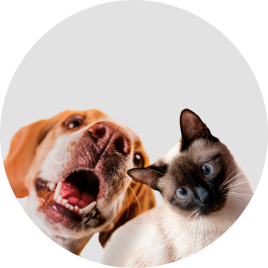
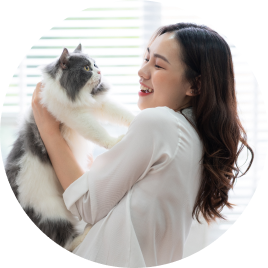
feat(landing): update CTA section and footer with new images and styles

diff --git a/src/components/CTASection.js b/src/components/CTASection.js
@@ -1,37 +1,49 @@
 import Link from "next/link";
+import Image from "next/image";
 
 export default function CTASection() {
     return (
-        <section className="relative w-full overflow-hidden bg-orange-100 py-20 sm:py-28 lg:py-32 px-4 sm:px-6 lg:px-8">
+        <section className="relative w-full overflow-hidden bg-[#FFF1E5] py-20 sm:py-28 lg:py-32 px-4 sm:px-6 lg:px-8">
             {/* === Decorative Shapes === */}
 
             {/* Yellow circle — top right */}
             <div
-                className="absolute -top-16 -right-16 sm:-top-20 sm:-right-20 w-40 h-40 sm:w-56 sm:h-56 lg:w-72 lg:h-72 rounded-full bg-[#FFCA62] pointer-events-none"
-                aria-hidden="true"
-            />
-
-            {/* Green starburst — top center */}
-            <svg
-                className="absolute top-6 left-1/2 -translate-x-1/2 w-20 h-20 sm:w-28 sm:h-28 lg:w-32 lg:h-32 pointer-events-none"
-                viewBox="0 0 120 120"
-                fill="#1CCD83"
+                className="absolute -top-10 -right-10 sm:-top-14 sm:-right-14 lg:-top-16 lg:-right-16 w-36 h-36 sm:w-48 sm:h-48 lg:w-56 lg:h-56 pointer-events-none"
                 aria-hidden="true"
             >
-                <polygon points="60,0 72,38 110,28 82,55 110,82 72,72 60,110 48,72 10,82 38,55 10,28 48,38" />
-            </svg>
+                <Image
+                    src="/image/dot-yellow.svg"
+                    alt=""
+                    fill
+                    className="object-contain"
+                />
+            </div>
 
-            {/* Blue circle — bottom left */}
+            {/* Green starburst — overlapping yellow circle, top right area */}
             <div
-                className="absolute -bottom-24 -left-24 sm:-bottom-32 sm:-left-32 lg:-bottom-40 lg:-left-40 w-56 h-56 sm:w-72 sm:h-72 lg:w-96 lg:h-96 rounded-full border-[16px] sm:border-[20px] lg:border-[24px] border-[#76D0FC] bg-transparent pointer-events-none"
+                className="absolute top-8 right-12 sm:top-10 sm:right-16 lg:top-12 lg:right-20 w-20 h-20 sm:w-28 sm:h-28 lg:w-36 lg:h-36 pointer-events-none"
                 aria-hidden="true"
-            />
+            >
+                <Image
+                    src="/image/star-green.svg"
+                    alt=""
+                    fill
+                    className="object-contain"
+                />
+            </div>
 
-            {/* Orange half-circle — bottom left (overlapping with blue ring) */}
+            {/* Blue arc — bottom left */}
             <div
-                className="absolute -bottom-10 -left-6 sm:-bottom-14 sm:-left-8 w-28 h-14 sm:w-36 sm:h-18 lg:w-44 lg:h-22 rounded-t-full bg-[#FF7037] pointer-events-none"
+                className="absolute -bottom-4 -left-8 sm:-bottom-4 sm:-left-10 lg:-bottom-4 lg:-left-12 w-40 h-28 sm:w-52 sm:h-36 lg:w-64 lg:h-40 pointer-events-none"
                 aria-hidden="true"
-            />
+            >
+                <Image
+                    src="/image/arc-blue.svg"
+                    alt=""
+                    fill
+                    className="object-contain object-bottom"
+                />
+            </div>
 
             {/* === Content === */}
             <div className="relative z-10 flex flex-col items-center text-center max-w-2xl mx-auto">
@@ -42,21 +54,24 @@ export default function CTASection() {
                     For Your Pet
                 </h2>
 
-                {/* Become a Sitter Link */}
-                <Link
-                    href="/become-sitter"
-                    className="mt-10 sm:mt-12 text-base sm:text-lg font-bold text-[#FF7037] hover:text-[#E44A0C] transition-colors underline-offset-4 hover:underline"
-                >
-                    Become A Pet Sitter
-                </Link>
+                {/* CTA Buttons — side by side */}
+                <div className="mt-10 sm:mt-12 flex flex-col sm:flex-row items-center gap-4 sm:gap-6">
+                    {/* Become a Sitter Link */}
+                    <Link
+                        href="/become-sitter"
+                        className="text-sm sm:text-base font-bold text-[#FF7037] hover:text-[#E44A0C] transition-colors underline-offset-4 hover:underline"
+                    >
+                        Become A Pet Sitter
+                    </Link>
 
-                {/* Find a Sitter Button */}
-                <Link
-                    href="/find-sitter"
-                    className="mt-5 sm:mt-6 inline-flex items-center justify-center w-full max-w-sm sm:max-w-md rounded-full bg-[#FF7037] px-10 py-4 text-base sm:text-lg font-bold text-white shadow-md transition-all hover:bg-[#E44A0C] hover:shadow-lg active:scale-[0.98]"
-                >
-                    Find A Pet Sitter
-                </Link>
+                    {/* Find a Sitter Button */}
+                    <Link
+                        href="/find-sitter"
+                        className="inline-flex items-center justify-center rounded-full bg-[#FF7037] px-8 py-3 sm:px-10 sm:py-3.5 text-sm sm:text-base font-bold text-white shadow-md transition-all hover:bg-[#E44A0C] hover:shadow-lg active:scale-[0.98]"
+                    >
+                        Find A Pet Sitter
+                    </Link>
+                </div>
             </div>
         </section>
     );

diff --git a/src/components/Footer.js b/src/components/Footer.js
@@ -1,24 +1,19 @@
 import Link from "next/link";
+import Image from "next/image";
 
 export default function Footer() {
     return (
         <footer className="w-full bg-black py-12 sm:py-16 px-4 sm:px-6 lg:px-8">
             <div className="max-w-7xl mx-auto flex flex-col items-center text-center">
-                {/* Logo: Sitter★ */}
-                <Link href="/" className="inline-flex items-baseline gap-0 group">
-                    <span className="text-2xl sm:text-3xl font-black tracking-tight">
-                        <span className="text-[#FF7037]">Sit</span>
-                        <span className="text-white">ter</span>
-                    </span>
-                    {/* Green Star */}
-                    <svg
-                        className="w-4 h-4 sm:w-5 sm:h-5 ml-0.5 -translate-y-1"
-                        viewBox="0 0 24 24"
-                        fill="#1CCD83"
-                        aria-hidden="true"
-                    >
-                        <polygon points="12,1 15.06,4.61 19.78,4.22 19.39,8.94 23,12 19.39,15.06 19.78,19.78 15.06,19.39 12,23 8.94,19.39 4.22,19.78 4.61,15.06 1,12 4.61,8.94 4.22,4.22 8.94,4.61" />
-                    </svg>
+                {/* Logo */}
+                <Link href="/" className="inline-block">
+                    <Image
+                        src="/image/logo-footer.png"
+                        alt="Sitter"
+                        width={120}
+                        height={40}
+                        className="h-8 sm:h-10 w-auto"
+                    />
                 </Link>
 
                 {/* Tagline */}
@@ -29,3 +24,4 @@ export default function Footer() {
         </footer>
     );
 }
+
